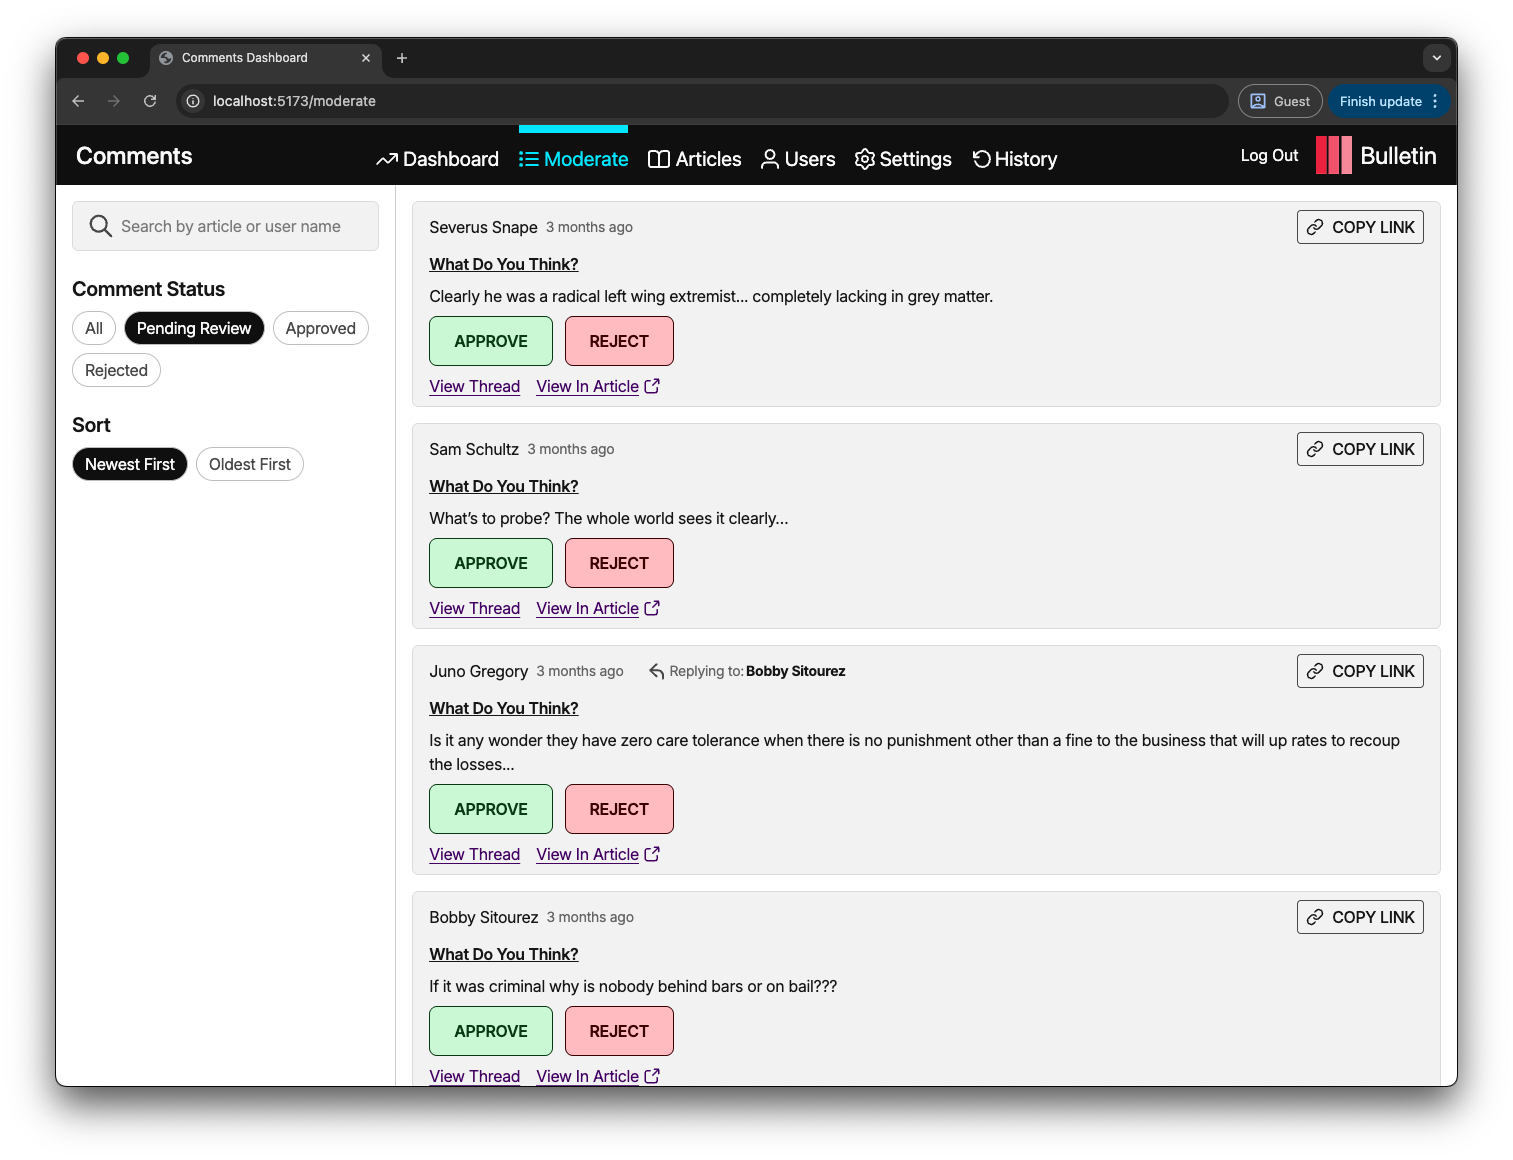
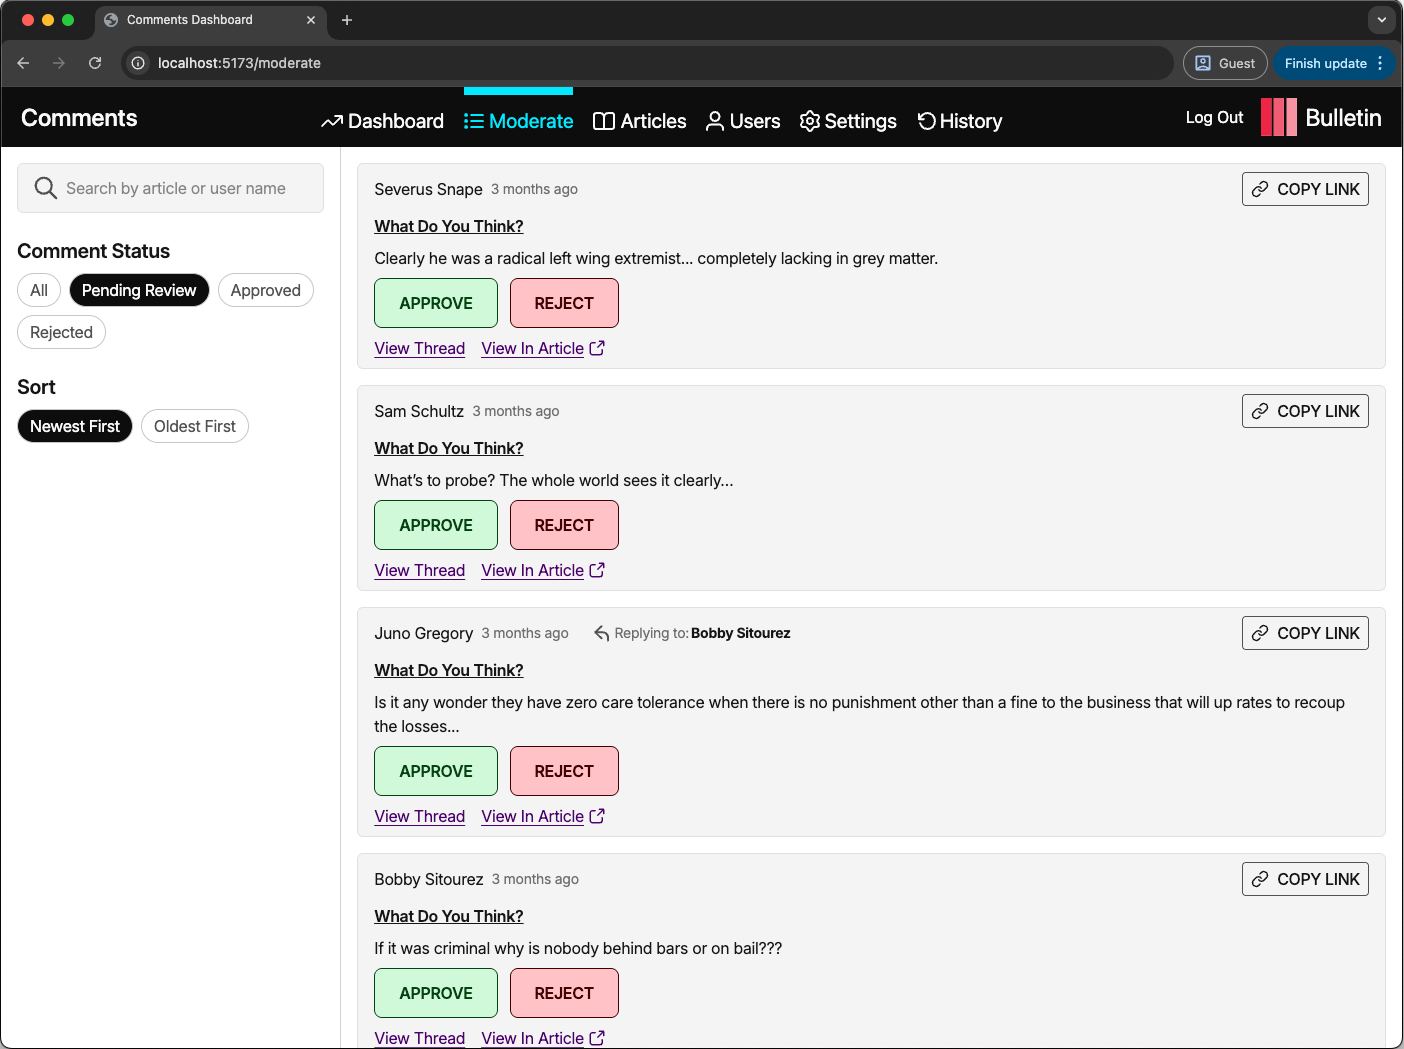
ok... really the last fixes this time

Changed region(s): [[0.0, 0.0, 1.0, 1.0]]

diff --git a/src/components/header.tsx b/src/components/header.tsx
@@ -3,10 +3,33 @@
 import Link from 'next/link';
 import ThemeToggle from './themeToggle';
 import Hamburger from './hamburger';
-import { MouseEventHandler, useState } from 'react';
+import { MouseEventHandler, useEffect, useRef, useState } from 'react';
 
 export default function SiteHeader() {
 	const [isOpen, setIsOpen] = useState(false);
+	const hamburgerRef = useRef<HTMLDivElement>(null);
+	const mobileNavRef = useRef<HTMLDivElement>(null);
+
+	// Hide hamburger menu when clicking outside (mobile only)
+	useEffect(() => {
+		if (!isOpen) return;
+
+		const handleClickOutside = (event: MouseEvent) => {
+			const target = event.target as Node;
+			if (
+				hamburgerRef.current &&
+				!hamburgerRef.current.contains(target) &&
+				mobileNavRef.current &&
+				!mobileNavRef.current.contains(target)
+			) {
+				setIsOpen(false);
+			}
+		};
+		document.addEventListener('mousedown', handleClickOutside);
+		return () => {
+			document.removeEventListener('mousedown', handleClickOutside);
+		};
+	}, [isOpen]);
 
 	const handleLinkClick = () => {
 		setIsOpen(false);
@@ -28,11 +51,11 @@ export default function SiteHeader() {
 					</nav>
 					<ThemeToggle />
 				</div>
-				<Hamburger isOpen={isOpen} setIsOpen={setIsOpen}>
+				<Hamburger isOpen={isOpen} setIsOpen={setIsOpen} ref={hamburgerRef}>
 					<ThemeToggle />
 				</Hamburger>
 			</div>
-			<div className="mobileNav md:hidden">
+			<div className="mobileNav md:hidden" ref={mobileNavRef}>
 				<nav className="flex items-center p-4">
 					<ul className="flex w-full flex-col gap-6 text-2xl md:gap-8">
 						<NavItems onClick={handleLinkClick} />

diff --git a/src/components/themeToggle.tsx b/src/components/themeToggle.tsx
@@ -5,13 +5,8 @@ import IconSun from './icons/iconSun';
 import IconMoon from './icons/iconMoon';
 
 export default function ThemeToggle() {
-	const [isDark, setIsDark] = useState(() => {
-		if (typeof window !== 'undefined') {
-			return localStorage.getItem('theme') === 'dark';
-		}
-		return false;
-	});
-	// Set the initial theme based on the user's system preference
+	const [isDark, setIsDark] = useState(false);
+
 	useEffect(() => {
 		if (typeof window !== 'undefined') {
 			const storedTheme = localStorage.getItem('theme');
@@ -29,14 +24,14 @@ export default function ThemeToggle() {
 			}
 		}
 	}, []);
-	// Override the theme when toggling the theme slider
+
 	const handleToggleClick = () => {
 		if (typeof window !== 'undefined') {
 			const { dataset } = document.body;
 			const newTheme = isDark ? 'light' : 'dark';
 			dataset.theme = newTheme;
-			setIsDark((prev) => !prev);
 			localStorage.setItem('theme', newTheme);
+			setIsDark((prev) => !prev);
 		}
 	};
 

diff --git a/src/components/carousel.tsx b/src/components/carousel.tsx
@@ -10,7 +10,7 @@ type CarouselProps = {
 export const Carousel = ({ projectName, imageFilenames }: CarouselProps) => {
 	const [imgIndex, setImgIndex] = useState(0);
 	return (
-		<div className="relative grid grid-cols-[auto_1fr_1fr_auto] items-center justify-center gap-2 px-5 md:w-2/3 md:grid-cols-[auto_auto_auto] md:gap-8 2xl:w-1/2">
+		<div className="relative grid grid-cols-[auto_1fr_1fr_auto] items-center justify-center gap-2 px-5 md:grid-cols-[auto_auto_auto] md:gap-8 lg:w-2/3 2xl:w-1/2">
 			<ChevronButton
 				direction="forward"
 				images={imageFilenames}
@@ -30,7 +30,7 @@ export const Carousel = ({ projectName, imageFilenames }: CarouselProps) => {
 							key={filename}
 							src={`/${projectName}/${filename}`}
 							alt={filename}
-							className="h-[40rem] w-auto object-contain"
+							className="w-auto object-contain md:max-h-[40rem]"
 							loading="eager"
 						/>
 					</div>

diff --git a/src/components/hamburger.tsx b/src/components/hamburger.tsx
@@ -3,10 +3,12 @@
 import { PropsWithChildren, useCallback, useEffect } from 'react';
 
 type HamburgerProps = {
+	ref: React.RefObject<HTMLDivElement | null>;
 	isOpen: boolean;
 	setIsOpen: (isOpen: boolean) => void;
 };
 export default function Hamburger({
+	ref,
 	children,
 	isOpen,
 	setIsOpen,
@@ -32,7 +34,10 @@ export default function Hamburger({
 	}, [isOpen, setIsOpen]);
 
 	return (
-		<div className="relative flex w-full items-center justify-between px-4 py-2 md:hidden">
+		<div
+			className="relative flex w-full items-center justify-between px-4 py-2 md:hidden"
+			ref={ref}
+		>
 			<button
 				className="group relative block h-12 w-12 cursor-pointer rounded-full border-0 p-0"
 				aria-label="Menu"

diff --git a/src/components/education.tsx b/src/components/education.tsx
@@ -7,7 +7,7 @@ export default function Education() {
 			className="flex w-full flex-col items-center justify-center gap-4 px-8 pt-24"
 		>
 			<h2>Education</h2>
-			<div className="grid w-full max-w-[80rem] grid-cols-1 place-items-center gap-8 md:w-[65vw] md:grid-cols-2">
+			<div className="grid w-full max-w-[80rem] grid-cols-1 place-items-center gap-8 lg:w-[65vw] lg:grid-cols-2">
 				<EducationCard title="Diploma of Software Development" provider="South Metro TAFE">
 					<ul className="resumeInfoList">
 						<li>

diff --git a/src/components/resume.tsx b/src/components/resume.tsx
@@ -10,7 +10,7 @@ export default function Resume() {
 			className="flex w-full flex-col items-center justify-center gap-4 px-8 pt-24"
 		>
 			<h2>Work History</h2>
-			<div className="flex w-full max-w-[80rem] flex-col place-items-center gap-8 md:grid md:w-[65vw] md:grid-cols-4">
+			<div className="flex w-full max-w-[80rem] flex-col place-items-center gap-8 lg:grid lg:w-[65vw] lg:grid-cols-4">
 				<ResumeCard
 					jobTitle="Associate Developer"
 					jobCompany="Seven West Media"

diff --git a/src/app/portfolio/[slug]/page.tsx b/src/app/portfolio/[slug]/page.tsx
@@ -36,7 +36,7 @@ export default async function PortfolioItem({ params }: RouteProps) {
 				</h1>
 				<ul className="flex flex-col items-center justify-center gap-2 px-8 py-4 text-lg md:text-xl">
 					{portfolioData.descriptionBlocks.map((block, index) => (
-						<li key={index} className="w-full text-justify text-lg md:w-2/3 md:text-xl">
+						<li key={index} className="w-full text-justify text-lg md:text-xl lg:w-2/3">
 							{block}
 						</li>
 					))}

diff --git a/src/app/globals.css b/src/app/globals.css
@@ -126,7 +126,7 @@ h2 {
     padding-inline: calc(var(--spacing) * 8);
     
 
-    @media (width >= 48rem) {
+    @media (width >= 64rem) {
       padding-inline: 0;
       display: grid;
       width: 65vw;
@@ -137,7 +137,7 @@ h2 {
     display: flex;
     height: 40rem;
 
-    @media (width >= 48rem) {
+    @media (width >= 64rem) {
       height: 35rem;
     }
 
